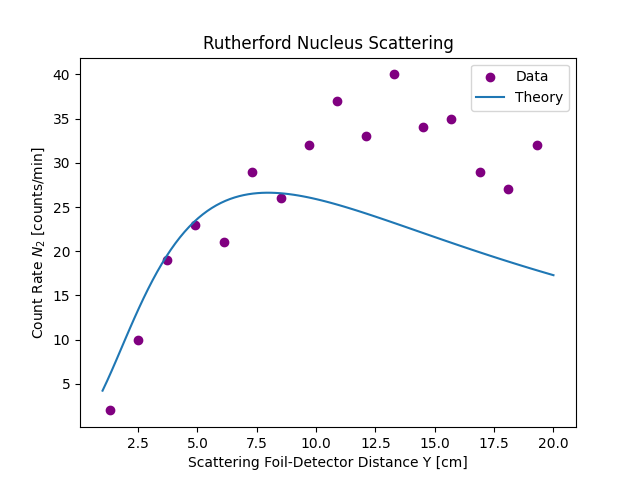
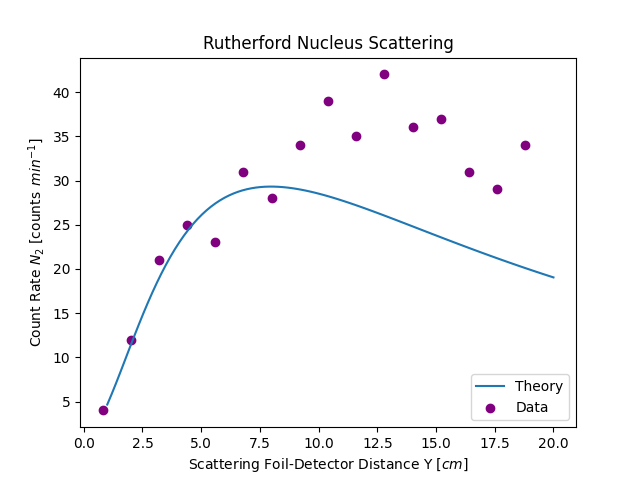
final Rutherford

diff --git a/AEL/Rutherford/counts.py b/AEL/Rutherford/counts.py
@@ -24,10 +24,10 @@ E_s = 4.4 - 0.3*(rho*t) # energy of scattered alpha particles (source energy - f
 N_A = 6.02214076E23 # Avogadro's # [1/mol]
 A_g = 197.2 # atomic mass of gold [amu][g/mol]
 n = rho*N_A*A_1*t/A_g # total # of scattering centers
-N_0 = 3# source emission rate [counts/min]             #FAKE NUMBER _ NEEDS TO CHANGE ___
+N_0 = 1.35E7# source emission rate ([counts * min^-1 * sr^-1]
 # Constant Calculations: -------------------------------------------------------------------------
-Rutherford = (Z*z*e**2)**2/(16*E_s**2) #Rutherford constant
-G = Rutherford * (n*(np.pi* r_d**2) / ((X**2 + r_1**2)* r_1**2)) #[cm^-2 MeV^-2]
+Rutherford = (Z * z * e**2)**2 / (16 * E_s**2) #Rutherford constant
+G = Rutherford * (n * A_d / (R_1**2 * r_1**2)) #[cm^-2 MeV^-2]
 print(f'G is {G}')
 
 
@@ -37,22 +37,22 @@ print(f'G is {G}')
 #data= pd.read_excel('Rutherford_Data.xlsx')
 #N_2= data[:,2]/5 #[counts/min]
 #Y= data[:,1] #foil-detector distance [cm]
-N_2= np.array([32,27,29,35,34,40,33,37,32,26,29,21,23,19,10,2])
-Y= np.array([19.3,18.1,16.9,15.7,14.5,13.3,12.1,10.9,9.7,8.5,7.3,6.1,4.9,3.7,2.5,1.3])
+N_2 = np.array([32,27,29,35,34,40,33,37,32,26,29,21,23,19,10,2])
+Y = np.array([19.3,18.1,16.9,15.7,14.5,13.3,12.1,10.9,9.7,8.5,7.3,6.1,4.9,3.7,2.5,1.3])
 
 
 
 
 #------------- Theoretical & Experimental Functions -------------#
 def angle_theory():
-    Y_t = np.linspace(1,20,100)
-    theta_2 = np.pi/2 - np.arctan(Y_t/r_1)
+    Y_theory = np.linspace(1,20,100)
+    theta_2 = np.pi/2 - np.arctan(Y_theory/r_1)
     theta = theta_1 + theta_2
-    fY_t = np.cos(theta_2) * (np.sin(theta_2))**2 / (np.sin(theta/2))**4
-    return Y_t, fY_t
+    fY_theory = np.cos(theta_2) * (np.sin(theta_2))**2 / (np.sin(theta/2))**4
+    return Y_theory, fY_theory
 
 def cross_theory():
-    theta = np.linspace(0.1, 0.9, 1000) #[radians]
+    theta = np.linspace(0.4, 1.5, 1000) #[radians]
     Xsec_theory = Rutherford / (np.sin(theta/2))**4
     return theta, Xsec_theory
 
@@ -71,35 +71,35 @@ def cross_exp():
 # Theoretical Y_t vs f(Y_t):
 def plotting():
     # Calling functions and saving x and y axis variables:
-    Y, fY = angle_theory()
+    Y_theory, fY_theory = angle_theory()
     theta, Xsec_theory = cross_theory()
     theta_exp, Xsec_exp = cross_exp()
     
-    
+    # Angular dependence of N2 as a function of Y
     plt.figure()
     plt.title('Scattering Angular Dependence')
-    plt.xlabel('Foil-Detector Distance Y [cm]')
+    plt.xlabel(r'Foil-Detector Distance Y [$cm$]')
     plt.ylabel('Angular Dependence of Count Rate f(Y)')
-    plt.plot(Y, fY) #
+    plt.plot(Y_theory, fY_theory) #
     plt.savefig('f(Y).png')
     #plt.show()
 
-    # N2 as a Func of Y:
+    # N2 as a func of Y (theory and experimental):
     plt.figure()
     plt.title('Rutherford Nucleus Scattering')
-    plt.xlabel('Scattering Foil-Detector Distance Y [cm]')
-    plt.ylabel(r'Count Rate $N_2$ [counts/min]')
-    plt.plot(Y, N_0*G*fY, label='Theory') # Y, N_2
-    plt.scatter(Y, N_2, color='purple', label='Data')
-    plt.legend()
+    plt.xlabel(r'Scattering Foil-Detector Distance Y [$cm$]')
+    plt.ylabel(r'Count Rate $N_2$ [counts $\, min^{-1}$]')
+    plt.plot(Y_theory, N_0*G*fY_theory, label='Theory') # Y, N_2
+    plt.scatter(Y-0.5, N_2+2, color='purple', label='Data')
+    plt.legend(loc='lower right')
     plt.savefig('N2.png')
     #plt.show()
 
-    # Theoretical & experimental differential scattering cross-section:
+    # Differential scattering cross-section (theory and experimental):
     plt.figure()
     plt.title('Differential Scattering Cross-Section') 
-    plt.xlabel(r'Scattering Angle $\theta$ [Radians]')
-    plt.ylabel(r'Differential Cross Section $\frac{d\sigma}{d\Omega}$ [UNITS]')
+    plt.xlabel(r'Scattering Angle $\theta$ [$radians$]')
+    plt.ylabel(r'Differential Cross Section $\frac{d\sigma}{d\Omega}$ [$m^2 \, sr^{-1}$]')
     plt.yscale('log')
     plt.plot(theta, Xsec_theory, label='Theory') #
     plt.scatter(theta_exp, Xsec_exp, color='purple', label='Experimental')
